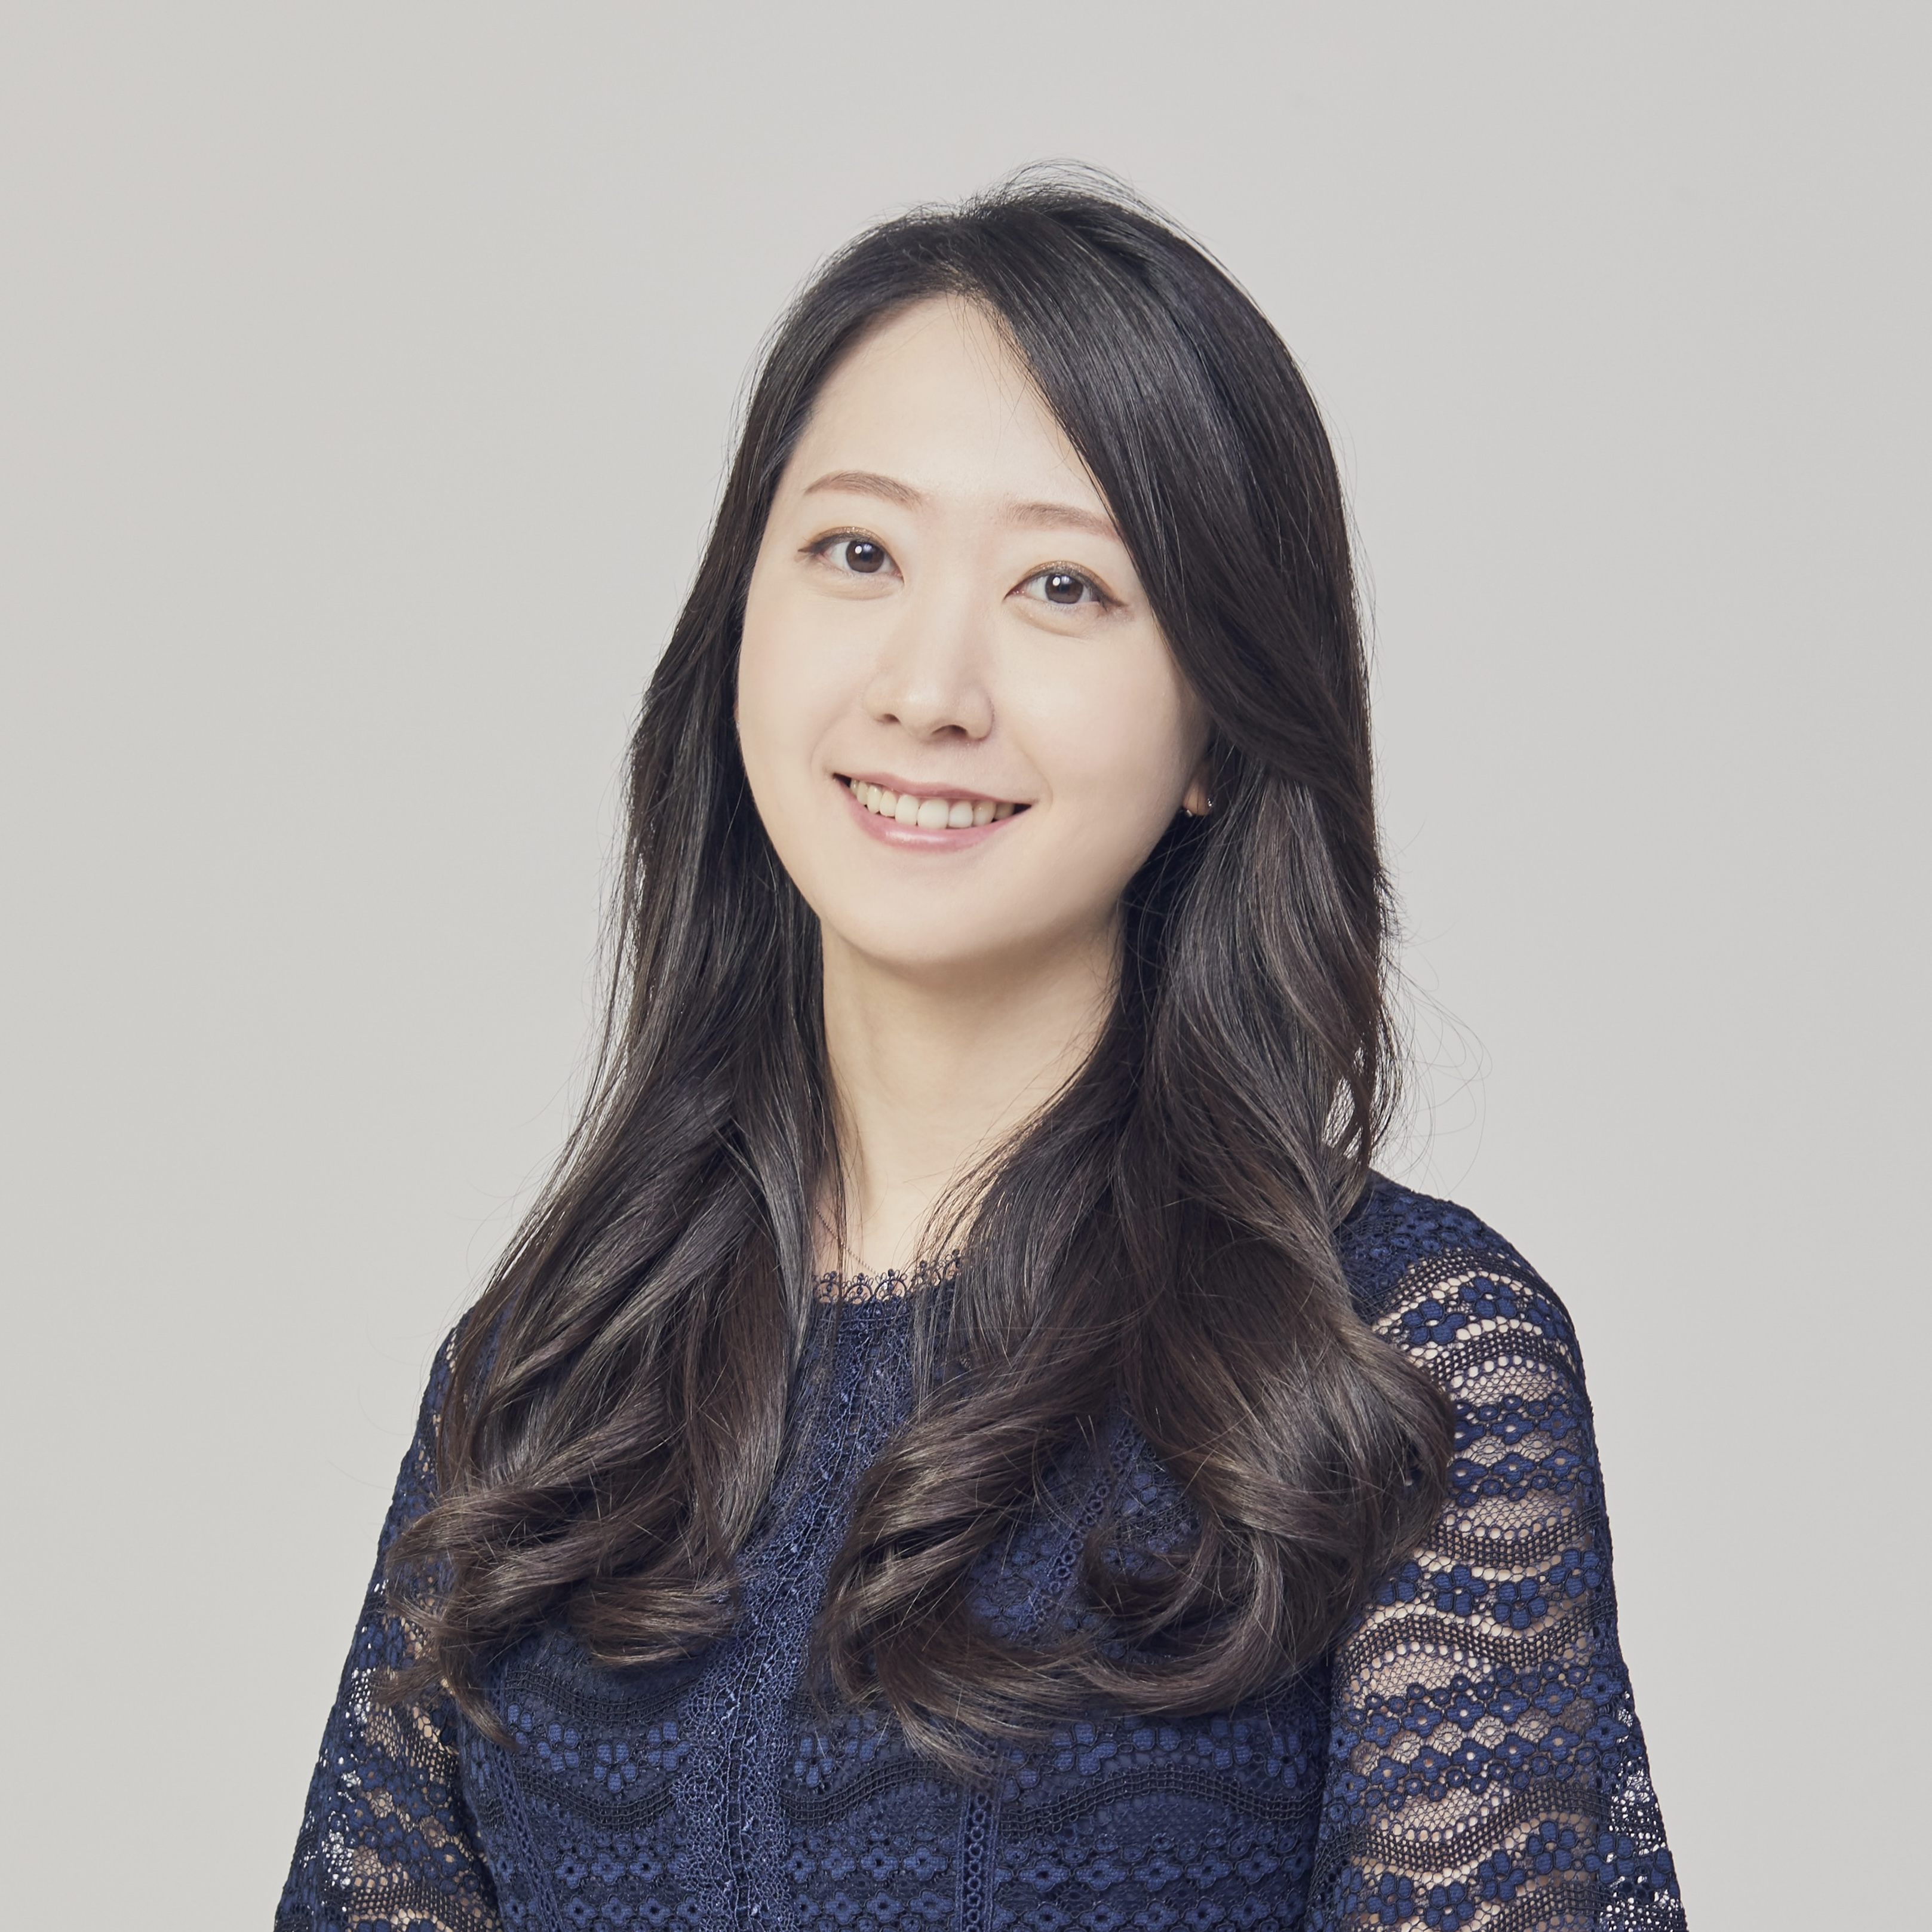
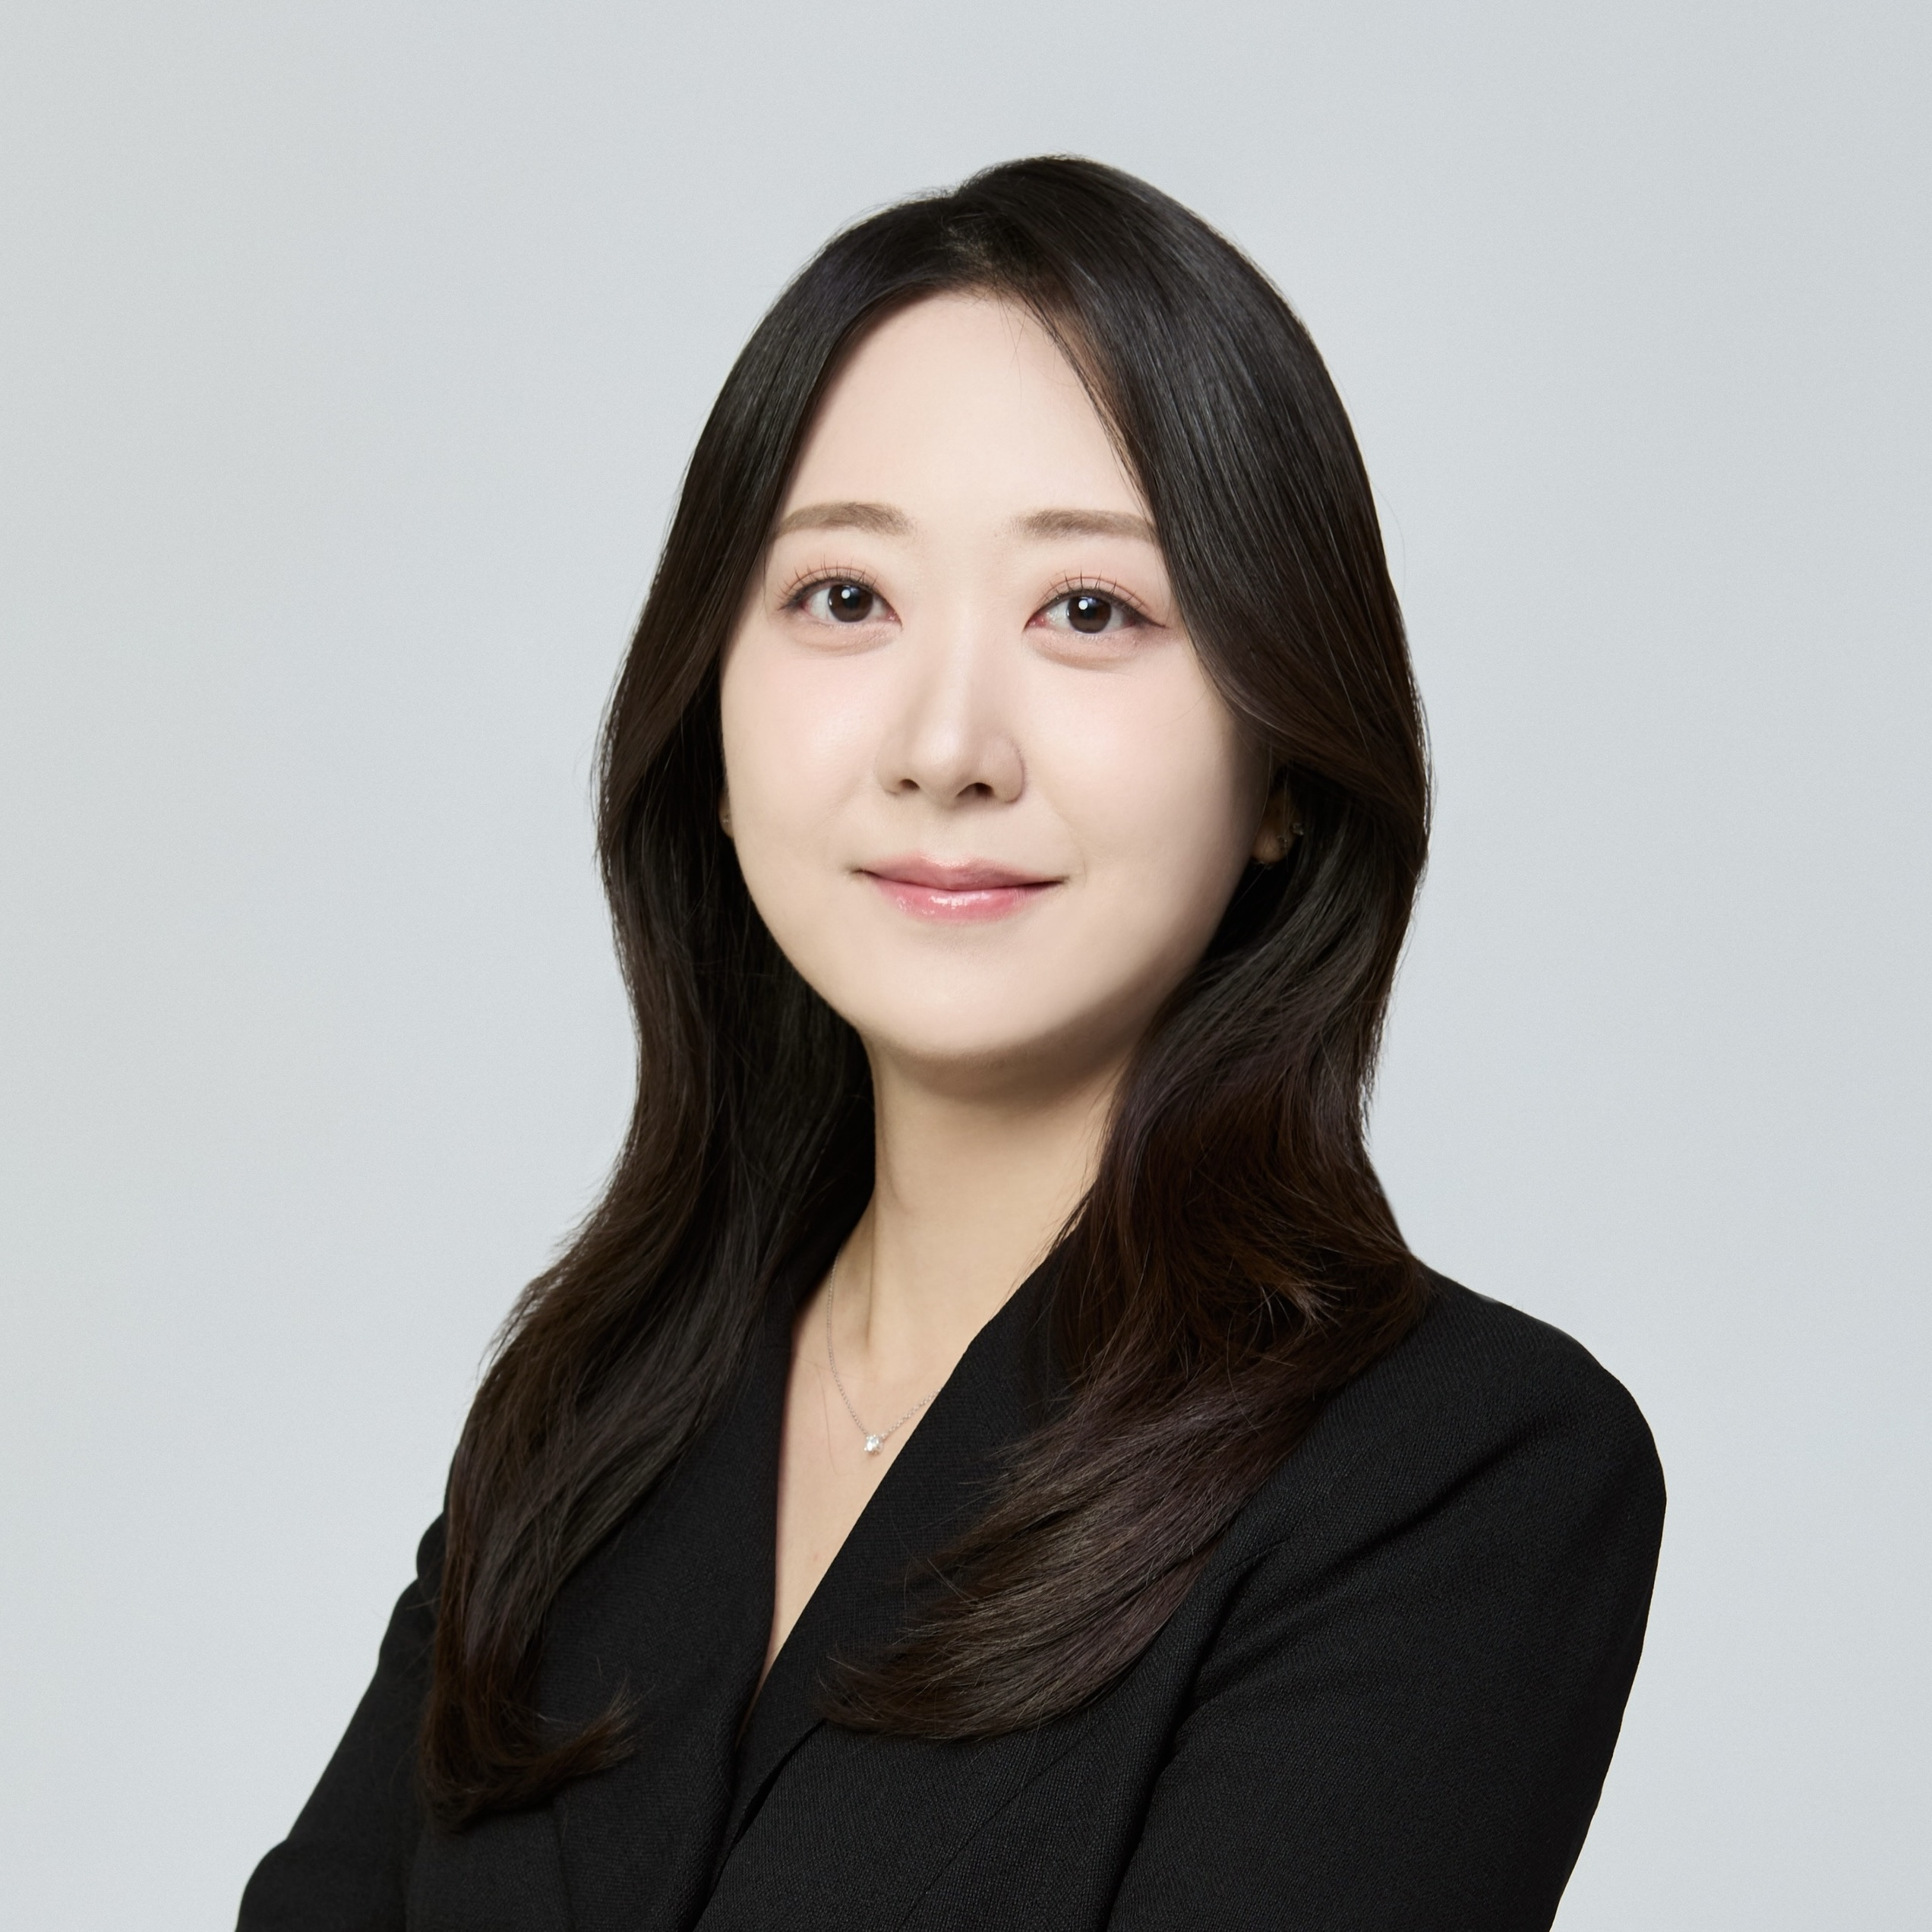
Deploying to gh-pages from @ eugenejang-usc/eugenejang-usc.github.io@747e23769f91712916e416ef4631767ced37d167 🚀

diff --git a/index.html b/index.html
@@ -1,1 +1,1 @@
-<!DOCTYPE html> <html lang="en"> <head> <meta http-equiv="Content-Type" content="text/html; charset=UTF-8"> <meta charset="utf-8"> <meta name="viewport" content="width=device-width, initial-scale=1, shrink-to-fit=no"> <meta http-equiv="X-UA-Compatible" content="IE=edge"> <title> Eugene Jang </title> <meta name="author" content="Eugene Jang"> <meta name="description" content="A simple, whitespace theme for academics. Based on [*folio](https://github.com/bogoli/-folio) design. "> <meta name="keywords" content="jekyll, jekyll-theme, academic-website, portfolio-website"> <link rel="stylesheet" href="/assets/css/bootstrap.min.css?a4b3f509e79c54a512b890d73235ef04"> <link rel="stylesheet" href="https://cdn.jsdelivr.net/npm/mdbootstrap@4.20.0/css/mdb.min.css" integrity="sha256-jpjYvU3G3N6nrrBwXJoVEYI/0zw8htfFnhT9ljN3JJw=" crossorigin="anonymous"> <link defer rel="stylesheet" href="/assets/css/academicons.min.css?f0b7046b84e425c55f3463ac249818f5"> <link defer rel="stylesheet" type="text/css" href="https://fonts.googleapis.com/css?family=Roboto:300,400,500,700|Roboto+Slab:100,300,400,500,700|Material+Icons&amp;display=swap"> <link defer rel="stylesheet" href="/assets/css/jekyll-pygments-themes-github.css?591dab5a4e56573bf4ef7fd332894c99" media="" id="highlight_theme_light"> <link rel="shortcut icon" href="/assets/img/riticon.png?f9c4d30076d72bc02a798232a64cf5ec"> <link rel="stylesheet" href="/assets/css/main.css?d41d8cd98f00b204e9800998ecf8427e"> <link rel="canonical" href="https://eugenejang-usc.github.io/"> <script src="/assets/js/theme.js?9a0c749ec5240d9cda97bc72359a72c0"></script> <link defer rel="stylesheet" href="/assets/css/jekyll-pygments-themes-native.css?5847e5ed4a4568527aa6cfab446049ca" media="none" id="highlight_theme_dark"> <script>initTheme();</script> </head> <body class="fixed-top-nav "> <header> <nav id="navbar" class="navbar navbar-light navbar-expand-sm fixed-top" role="navigation"> <div class="container"> <button class="navbar-toggler collapsed ml-auto" type="button" data-toggle="collapse" data-target="#navbarNav" aria-controls="navbarNav" aria-expanded="false" aria-label="Toggle navigation"> <span class="sr-only">Toggle navigation</span> <span class="icon-bar top-bar"></span> <span class="icon-bar middle-bar"></span> <span class="icon-bar bottom-bar"></span> </button> <div class="collapse navbar-collapse text-right" id="navbarNav"> <ul class="navbar-nav ml-auto flex-nowrap"> <li class="nav-item active"> <a class="nav-link" href="/">about <span class="sr-only">(current)</span> </a> </li> <li class="nav-item "> <a class="nav-link" href="/publications/">publications </a> </li> <li class="nav-item "> <a class="nav-link" href="/teaching/">teaching </a> </li> <li class="nav-item "> <a class="nav-link" href="/cv/">cv </a> </li> <li class="toggle-container"> <button id="light-toggle" title="Change theme"> <i class="ti ti-sun-moon" id="light-toggle-system"></i> <i class="ti ti-moon-filled" id="light-toggle-dark"></i> <i class="ti ti-sun-filled" id="light-toggle-light"></i> </button> </li> </ul> </div> </div> </nav> <progress id="progress" value="0"> <div class="progress-container"> <span class="progress-bar"></span> </div> </progress> </header> <div class="container mt-5" role="main"> <div class="post"> <header class="post-header"> <h1 class="post-title"> Eugene Jang </h1> <p class="desc"><strong>Assistant Professor, Rochester Institute of Technology</strong></p> </header> <article> <div class="profile float-right"> <figure> <picture> <source class="responsive-img-srcset" srcset="/assets/img/prof_pic-480.webp 480w,/assets/img/prof_pic-800.webp 800w,/assets/img/prof_pic-1400.webp 1400w," sizes="(min-width: 930px) 270.0px, (min-width: 576px) 30vw, 95vw" type="image/webp"> <img src="/assets/img/prof_pic.jpg?5e1cb61cffce7b2a4b360a79f07f83ac" class="img-fluid z-depth-1 rounded-circle" width="100%" height="auto" alt="prof_pic.jpg" loading="eager" onerror="this.onerror=null; $('.responsive-img-srcset').remove();"> </source></picture> </figure> <div class="more-info"></div> </div> <div class="clearfix"> <p>Eugene Jang is an Assistant Professor at the Rochester Institute of Technology. She earned her PhD from the Annenberg School for Communication at the University of Southern California. She was also funded as a Korea Foundation for Advanced Studies (KFAS) fellow during her doctoral studies. Prior to USC, she completed her BA and MA in Communication at Seoul National University.</p> <p>Her research interests span health communication, digital and social media, artificial intelligence (AI), science and technology studies (STS), social network analysis, and computational social science. She employs a mixed methods approach that integrates computational and qualitative analyses. Her dissertation examined social support dynamics across social media platforms using social network analysis. She is also interested in exploring how AI can be used to advance health and social equity.</p> </div> <div class="social"> <div class="contact-icons"> <a href="mailto:%65%78%6A%67%6C%61@%72%69%74.%65%64%75" title="email"><i class="fa-solid fa-envelope"></i></a> <a href="https://orcid.org/0000-0003-0650-6822" title="ORCID" rel="external nofollow noopener" target="_blank"><i class="ai ai-orcid"></i></a> <a href="https://scholar.google.com/citations?user=PB-DOw8AAAAJ" title="Google Scholar" rel="external nofollow noopener" target="_blank"><i class="ai ai-google-scholar"></i></a> <a href="https://www.researchgate.net/profile/Eugene-Jang/" title="ResearchGate" rel="external nofollow noopener" target="_blank"><i class="ai ai-researchgate"></i></a> <a href="https://www.linkedin.com/in/eugene--jang" title="LinkedIn" rel="external nofollow noopener" target="_blank"><i class="fa-brands fa-linkedin"></i></a> </div> <div class="contact-note">The best way to reach out is by Email. </div> </div> </article> </div> </div> <footer class="fixed-bottom" role="contentinfo"> <div class="container mt-0"> © Copyright 2026 Eugene Jang. Powered by <a href="https://jekyllrb.com/" target="_blank" rel="external nofollow noopener">Jekyll</a> with <a href="https://github.com/alshedivat/al-folio" rel="external nofollow noopener" target="_blank">al-folio</a> theme. Hosted by <a href="https://pages.github.com/" target="_blank" rel="external nofollow noopener">GitHub Pages</a>. Photos from <a href="https://unsplash.com" target="_blank" rel="external nofollow noopener">Unsplash</a>. </div> </footer> <script src="https://cdn.jsdelivr.net/npm/jquery@3.6.0/dist/jquery.min.js" integrity="sha256-/xUj+3OJU5yExlq6GSYGSHk7tPXikynS7ogEvDej/m4=" crossorigin="anonymous"></script> <script src="/assets/js/bootstrap.bundle.min.js"></script> <script src="https://cdn.jsdelivr.net/npm/mdbootstrap@4.20.0/js/mdb.min.js" integrity="sha256-NdbiivsvWt7VYCt6hYNT3h/th9vSTL4EDWeGs5SN3DA=" crossorigin="anonymous"></script> <script defer src="https://cdn.jsdelivr.net/npm/masonry-layout@4.2.2/dist/masonry.pkgd.min.js" integrity="sha256-Nn1q/fx0H7SNLZMQ5Hw5JLaTRZp0yILA/FRexe19VdI=" crossorigin="anonymous"></script> <script defer src="https://cdn.jsdelivr.net/npm/imagesloaded@5.0.0/imagesloaded.pkgd.min.js" integrity="sha256-htrLFfZJ6v5udOG+3kNLINIKh2gvoKqwEhHYfTTMICc=" crossorigin="anonymous"></script> <script defer src="/assets/js/masonry.js" type="text/javascript"></script> <script defer src="https://cdn.jsdelivr.net/npm/medium-zoom@1.1.0/dist/medium-zoom.min.js" integrity="sha256-ZgMyDAIYDYGxbcpJcfUnYwNevG/xi9OHKaR/8GK+jWc=" crossorigin="anonymous"></script> <script defer src="/assets/js/zoom.js?85ddb88934d28b74e78031fd54cf8308"></script> <script src="/assets/js/no_defer.js?2781658a0a2b13ed609542042a859126"></script> <script defer src="/assets/js/common.js?e0514a05c5c95ac1a93a8dfd5249b92e"></script> <script defer src="/assets/js/copy_code.js?12775fdf7f95e901d7119054556e495f" type="text/javascript"></script> <script defer src="/assets/js/jupyter_new_tab.js?d9f17b6adc2311cbabd747f4538bb15f"></script> <script async src="https://d1bxh8uas1mnw7.cloudfront.net/assets/embed.js"></script> <script async src="https://badge.dimensions.ai/badge.js"></script> <script type="text/javascript">window.MathJax={tex:{tags:"ams"}};</script> <script defer type="text/javascript" id="MathJax-script" src="https://cdn.jsdelivr.net/npm/mathjax@3.2.2/es5/tex-mml-chtml.js" integrity="sha256-MASABpB4tYktI2Oitl4t+78w/lyA+D7b/s9GEP0JOGI=" crossorigin="anonymous"></script> <script defer src="https://cdnjs.cloudflare.com/polyfill/v3/polyfill.min.js?features=es6" crossorigin="anonymous"></script> <script type="text/javascript">function progressBarSetup(){"max"in document.createElement("progress")?(initializeProgressElement(),$(document).on("scroll",function(){progressBar.attr({value:getCurrentScrollPosition()})}),$(window).on("resize",initializeProgressElement)):(resizeProgressBar(),$(document).on("scroll",resizeProgressBar),$(window).on("resize",resizeProgressBar))}function getCurrentScrollPosition(){return $(window).scrollTop()}function initializeProgressElement(){let e=$("#navbar").outerHeight(!0);$("body").css({"padding-top":e}),$("progress-container").css({"padding-top":e}),progressBar.css({top:e}),progressBar.attr({max:getDistanceToScroll(),value:getCurrentScrollPosition()})}function getDistanceToScroll(){return $(document).height()-$(window).height()}function resizeProgressBar(){progressBar.css({width:getWidthPercentage()+"%"})}function getWidthPercentage(){return getCurrentScrollPosition()/getDistanceToScroll()*100}const progressBar=$("#progress");window.onload=function(){setTimeout(progressBarSetup,50)};</script> <script src="/assets/js/vanilla-back-to-top.min.js?f40d453793ff4f64e238e420181a1d17"></script> <script>addBackToTop();</script> </body> </html>
+<!DOCTYPE html> <html lang="en"> <head> <meta http-equiv="Content-Type" content="text/html; charset=UTF-8"> <meta charset="utf-8"> <meta name="viewport" content="width=device-width, initial-scale=1, shrink-to-fit=no"> <meta http-equiv="X-UA-Compatible" content="IE=edge"> <title> Eugene Jang </title> <meta name="author" content="Eugene Jang"> <meta name="description" content="A simple, whitespace theme for academics. Based on [*folio](https://github.com/bogoli/-folio) design. "> <meta name="keywords" content="jekyll, jekyll-theme, academic-website, portfolio-website"> <link rel="stylesheet" href="/assets/css/bootstrap.min.css?a4b3f509e79c54a512b890d73235ef04"> <link rel="stylesheet" href="https://cdn.jsdelivr.net/npm/mdbootstrap@4.20.0/css/mdb.min.css" integrity="sha256-jpjYvU3G3N6nrrBwXJoVEYI/0zw8htfFnhT9ljN3JJw=" crossorigin="anonymous"> <link defer rel="stylesheet" href="/assets/css/academicons.min.css?f0b7046b84e425c55f3463ac249818f5"> <link defer rel="stylesheet" type="text/css" href="https://fonts.googleapis.com/css?family=Roboto:300,400,500,700|Roboto+Slab:100,300,400,500,700|Material+Icons&amp;display=swap"> <link defer rel="stylesheet" href="/assets/css/jekyll-pygments-themes-github.css?591dab5a4e56573bf4ef7fd332894c99" media="" id="highlight_theme_light"> <link rel="shortcut icon" href="/assets/img/riticon.png?f9c4d30076d72bc02a798232a64cf5ec"> <link rel="stylesheet" href="/assets/css/main.css?d41d8cd98f00b204e9800998ecf8427e"> <link rel="canonical" href="https://eugenejang-usc.github.io/"> <script src="/assets/js/theme.js?9a0c749ec5240d9cda97bc72359a72c0"></script> <link defer rel="stylesheet" href="/assets/css/jekyll-pygments-themes-native.css?5847e5ed4a4568527aa6cfab446049ca" media="none" id="highlight_theme_dark"> <script>initTheme();</script> </head> <body class="fixed-top-nav "> <header> <nav id="navbar" class="navbar navbar-light navbar-expand-sm fixed-top" role="navigation"> <div class="container"> <button class="navbar-toggler collapsed ml-auto" type="button" data-toggle="collapse" data-target="#navbarNav" aria-controls="navbarNav" aria-expanded="false" aria-label="Toggle navigation"> <span class="sr-only">Toggle navigation</span> <span class="icon-bar top-bar"></span> <span class="icon-bar middle-bar"></span> <span class="icon-bar bottom-bar"></span> </button> <div class="collapse navbar-collapse text-right" id="navbarNav"> <ul class="navbar-nav ml-auto flex-nowrap"> <li class="nav-item active"> <a class="nav-link" href="/">about <span class="sr-only">(current)</span> </a> </li> <li class="nav-item "> <a class="nav-link" href="/publications/">publications </a> </li> <li class="nav-item "> <a class="nav-link" href="/teaching/">teaching </a> </li> <li class="nav-item "> <a class="nav-link" href="/cv/">cv </a> </li> <li class="toggle-container"> <button id="light-toggle" title="Change theme"> <i class="ti ti-sun-moon" id="light-toggle-system"></i> <i class="ti ti-moon-filled" id="light-toggle-dark"></i> <i class="ti ti-sun-filled" id="light-toggle-light"></i> </button> </li> </ul> </div> </div> </nav> <progress id="progress" value="0"> <div class="progress-container"> <span class="progress-bar"></span> </div> </progress> </header> <div class="container mt-5" role="main"> <div class="post"> <header class="post-header"> <h1 class="post-title"> Eugene Jang </h1> <p class="desc"><strong>Assistant Professor, Rochester Institute of Technology</strong></p> </header> <article> <div class="profile float-right"> <figure> <picture> <source class="responsive-img-srcset" srcset="/assets/img/prof_pic-480.webp 480w,/assets/img/prof_pic-800.webp 800w,/assets/img/prof_pic-1400.webp 1400w," sizes="(min-width: 930px) 270.0px, (min-width: 576px) 30vw, 95vw" type="image/webp"> <img src="/assets/img/prof_pic.jpg?45a06850b05ad2c67fbea06b07936990" class="img-fluid z-depth-1 rounded-circle" width="100%" height="auto" alt="prof_pic.jpg" loading="eager" onerror="this.onerror=null; $('.responsive-img-srcset').remove();"> </source></picture> </figure> <div class="more-info"></div> </div> <div class="clearfix"> <p>Eugene Jang is an Assistant Professor at the Rochester Institute of Technology. She earned her PhD from the Annenberg School for Communication at the University of Southern California. She was also funded as a Korea Foundation for Advanced Studies (KFAS) fellow during her doctoral studies. Prior to USC, she completed her BA and MA in Communication at Seoul National University.</p> <p>Her research interests span health communication, digital and social media, artificial intelligence (AI), science and technology studies (STS), social network analysis, and computational social science. She employs a mixed methods approach that integrates computational and qualitative analyses. Her dissertation examined social support dynamics across social media platforms using social network analysis. She is also interested in exploring how AI can be used to advance health and social equity.</p> </div> <div class="social"> <div class="contact-icons"> <a href="mailto:%65%78%6A%67%6C%61@%72%69%74.%65%64%75" title="email"><i class="fa-solid fa-envelope"></i></a> <a href="https://orcid.org/0000-0003-0650-6822" title="ORCID" rel="external nofollow noopener" target="_blank"><i class="ai ai-orcid"></i></a> <a href="https://scholar.google.com/citations?user=PB-DOw8AAAAJ" title="Google Scholar" rel="external nofollow noopener" target="_blank"><i class="ai ai-google-scholar"></i></a> <a href="https://www.researchgate.net/profile/Eugene-Jang/" title="ResearchGate" rel="external nofollow noopener" target="_blank"><i class="ai ai-researchgate"></i></a> <a href="https://www.linkedin.com/in/eugene--jang" title="LinkedIn" rel="external nofollow noopener" target="_blank"><i class="fa-brands fa-linkedin"></i></a> </div> <div class="contact-note">The best way to reach out is by Email. </div> </div> </article> </div> </div> <footer class="fixed-bottom" role="contentinfo"> <div class="container mt-0"> © Copyright 2026 Eugene Jang. Powered by <a href="https://jekyllrb.com/" target="_blank" rel="external nofollow noopener">Jekyll</a> with <a href="https://github.com/alshedivat/al-folio" rel="external nofollow noopener" target="_blank">al-folio</a> theme. Hosted by <a href="https://pages.github.com/" target="_blank" rel="external nofollow noopener">GitHub Pages</a>. Photos from <a href="https://unsplash.com" target="_blank" rel="external nofollow noopener">Unsplash</a>. </div> </footer> <script src="https://cdn.jsdelivr.net/npm/jquery@3.6.0/dist/jquery.min.js" integrity="sha256-/xUj+3OJU5yExlq6GSYGSHk7tPXikynS7ogEvDej/m4=" crossorigin="anonymous"></script> <script src="/assets/js/bootstrap.bundle.min.js"></script> <script src="https://cdn.jsdelivr.net/npm/mdbootstrap@4.20.0/js/mdb.min.js" integrity="sha256-NdbiivsvWt7VYCt6hYNT3h/th9vSTL4EDWeGs5SN3DA=" crossorigin="anonymous"></script> <script defer src="https://cdn.jsdelivr.net/npm/masonry-layout@4.2.2/dist/masonry.pkgd.min.js" integrity="sha256-Nn1q/fx0H7SNLZMQ5Hw5JLaTRZp0yILA/FRexe19VdI=" crossorigin="anonymous"></script> <script defer src="https://cdn.jsdelivr.net/npm/imagesloaded@5.0.0/imagesloaded.pkgd.min.js" integrity="sha256-htrLFfZJ6v5udOG+3kNLINIKh2gvoKqwEhHYfTTMICc=" crossorigin="anonymous"></script> <script defer src="/assets/js/masonry.js" type="text/javascript"></script> <script defer src="https://cdn.jsdelivr.net/npm/medium-zoom@1.1.0/dist/medium-zoom.min.js" integrity="sha256-ZgMyDAIYDYGxbcpJcfUnYwNevG/xi9OHKaR/8GK+jWc=" crossorigin="anonymous"></script> <script defer src="/assets/js/zoom.js?85ddb88934d28b74e78031fd54cf8308"></script> <script src="/assets/js/no_defer.js?2781658a0a2b13ed609542042a859126"></script> <script defer src="/assets/js/common.js?e0514a05c5c95ac1a93a8dfd5249b92e"></script> <script defer src="/assets/js/copy_code.js?12775fdf7f95e901d7119054556e495f" type="text/javascript"></script> <script defer src="/assets/js/jupyter_new_tab.js?d9f17b6adc2311cbabd747f4538bb15f"></script> <script async src="https://d1bxh8uas1mnw7.cloudfront.net/assets/embed.js"></script> <script async src="https://badge.dimensions.ai/badge.js"></script> <script type="text/javascript">window.MathJax={tex:{tags:"ams"}};</script> <script defer type="text/javascript" id="MathJax-script" src="https://cdn.jsdelivr.net/npm/mathjax@3.2.2/es5/tex-mml-chtml.js" integrity="sha256-MASABpB4tYktI2Oitl4t+78w/lyA+D7b/s9GEP0JOGI=" crossorigin="anonymous"></script> <script defer src="https://cdnjs.cloudflare.com/polyfill/v3/polyfill.min.js?features=es6" crossorigin="anonymous"></script> <script type="text/javascript">function progressBarSetup(){"max"in document.createElement("progress")?(initializeProgressElement(),$(document).on("scroll",function(){progressBar.attr({value:getCurrentScrollPosition()})}),$(window).on("resize",initializeProgressElement)):(resizeProgressBar(),$(document).on("scroll",resizeProgressBar),$(window).on("resize",resizeProgressBar))}function getCurrentScrollPosition(){return $(window).scrollTop()}function initializeProgressElement(){let e=$("#navbar").outerHeight(!0);$("body").css({"padding-top":e}),$("progress-container").css({"padding-top":e}),progressBar.css({top:e}),progressBar.attr({max:getDistanceToScroll(),value:getCurrentScrollPosition()})}function getDistanceToScroll(){return $(document).height()-$(window).height()}function resizeProgressBar(){progressBar.css({width:getWidthPercentage()+"%"})}function getWidthPercentage(){return getCurrentScrollPosition()/getDistanceToScroll()*100}const progressBar=$("#progress");window.onload=function(){setTimeout(progressBarSetup,50)};</script> <script src="/assets/js/vanilla-back-to-top.min.js?f40d453793ff4f64e238e420181a1d17"></script> <script>addBackToTop();</script> </body> </html>